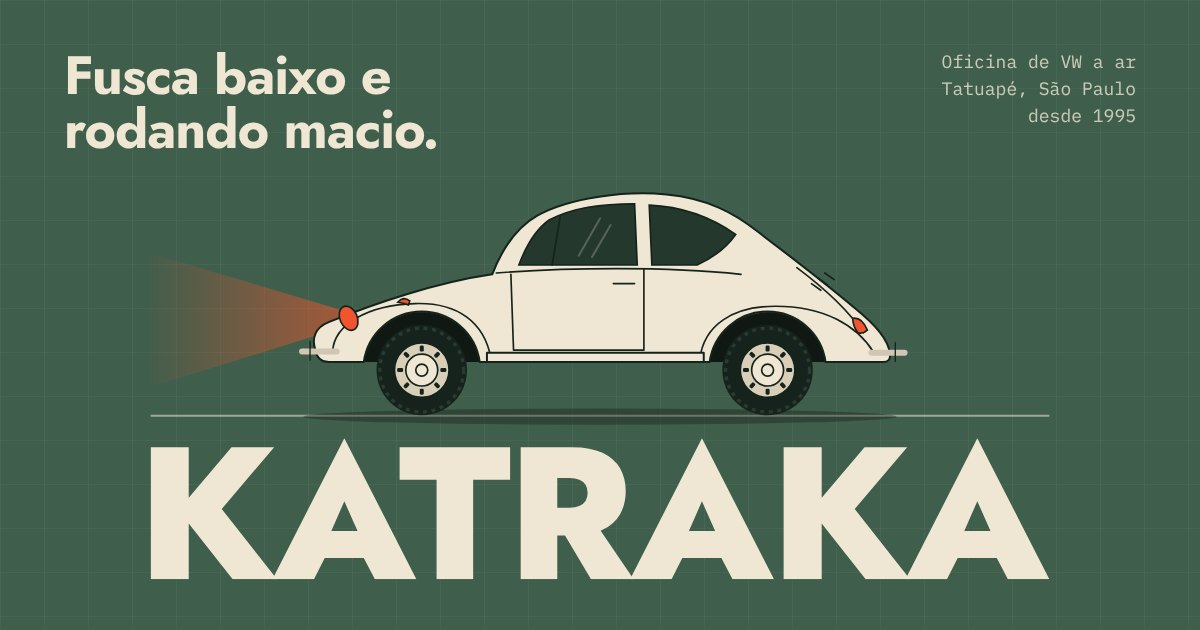
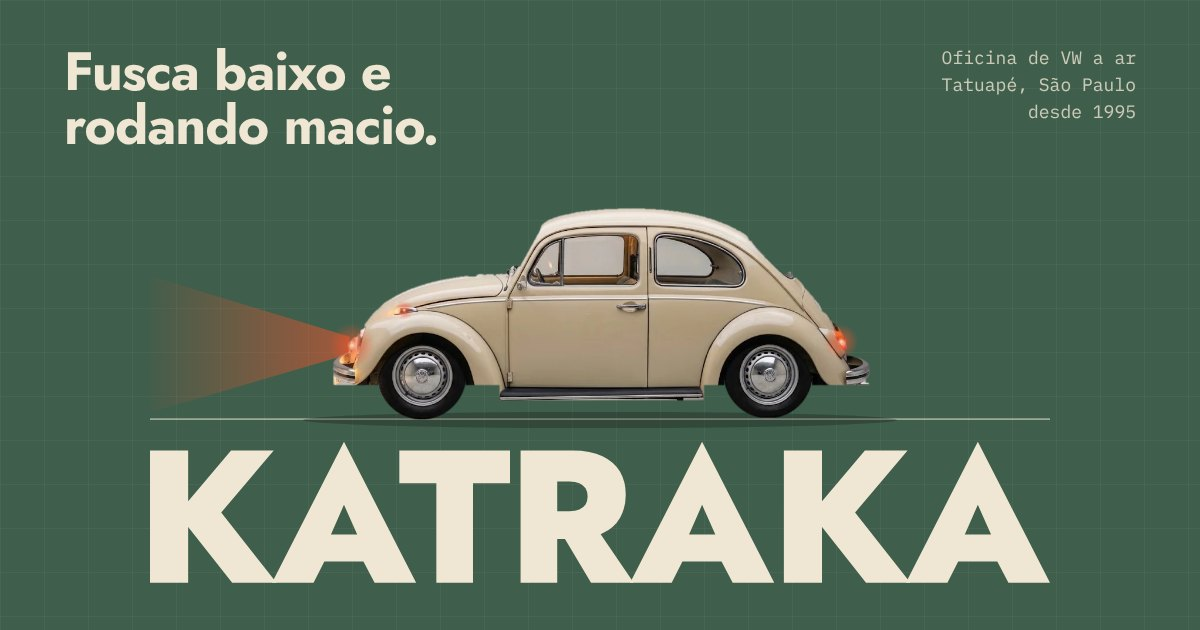
Katraka: introdução com o emblema VW e Fusca de verdade na abertura e no simulador
- Introdução: o emblema se monta (anel de catraca, V e W), o nome aparece
  dente por dente e o emblema pousa na calota do Fusca. Dá pra pular.
- Abertura e simulador usam a foto do Fusca recortada em carroceria e
  rodas; a carroceria baixa até a altura da foto rebaixada.
- Aviso de marca no rodapé, nova og:image e README atualizado.

Claude-Session: https://claude.ai/code/session_01LCkFTaDN4uyqkZNRZ9pSrk

diff --git a/sites/katraka/index.html b/sites/katraka/index.html
@@ -76,25 +76,13 @@ h2{font-size:clamp(36px,6vw,80px)}
 .lnk{display:inline-flex;align-items:center;min-height:44px;font-weight:500;text-decoration:underline;text-decoration-thickness:1px;text-underline-offset:6px}
 .lnk:hover{text-decoration-thickness:2px}
 
-/* desenho do Fusca (os mesmos símbolos servem pras 3 cenas; a cor vem de cada cena) */
-.lata{fill:var(--lata,#EFE6D3);stroke:var(--linha,#16231C);stroke-width:3;stroke-linejoin:round;stroke-dasharray:var(--tr,none)}
-.ln{fill:none;stroke:var(--linha,#16231C);stroke-width:2.5;stroke-linecap:round;stroke-linejoin:round;stroke-dasharray:var(--tr,none)}
-.vidro{fill:var(--vidro,#24382D);stroke:var(--linha,#16231C);stroke-width:2.5;stroke-dasharray:var(--tr,none)}
-.brilho{fill:none;stroke:var(--lata,#EFE6D3);stroke-width:3;opacity:.25;stroke-linecap:round}
-.cromo{fill:none;stroke:var(--cromo,#cfc6b4);stroke-width:9;stroke-linecap:round}
-.cromo2{fill:none;stroke:var(--linha,#16231C);stroke-width:2}
-.luz{fill:var(--luz,#d9cfb8);stroke:var(--linha,#16231C);stroke-width:2.5;transition:fill .3s}
-.farol,.lanterna,.pisca{fill:var(--acesa,var(--luz,#d9cfb8))}
-.caixa{fill:var(--caixa,#0f1813)}
-.pneu{fill:var(--pneu,#16231C);stroke:var(--pneu-l,none);stroke-width:2;stroke-dasharray:var(--tr,none)}
-.banda{fill:none;stroke:var(--banda,#2a3a31);stroke-width:5;stroke-dasharray:6 7}
-.aro{fill:var(--aro,#d9cfb8);stroke:var(--linha,#16231C);stroke-width:2.5}
-.calota{fill:var(--calota,#EFE6D3);stroke:var(--linha,#16231C);stroke-width:2.5}
-.furo{fill:var(--linha,#16231C)}
+/* Fusca de verdade (foto em camadas: a carroceria desce, as rodas ficam no chão) */
 .arco{fill:none;stroke-width:6;stroke-linecap:round;transition:stroke .2s}
 .arco-f{stroke:var(--arco-f,transparent)}
 .arco-r{stroke:var(--arco-r,transparent)}
-.aceso{--acesa:#F2542D}
+.luzes{opacity:0;transition:opacity .45s ease}
+.leg-foto{font-family:var(--fm);font-size:11px;opacity:.5;text-align:right;margin-top:4px}
+.aceso .luzes{opacity:1}
 
 /* topo */
 body::before{content:"";position:fixed;inset:0 0 auto;height:env(safe-area-inset-top,0px);z-index:60;background:var(--base)}
@@ -110,6 +98,36 @@ body::before{content:"";position:fixed;inset:0 0 auto;height:env(safe-area-inset
 .nav a.it span+span{position:absolute;left:0;top:100%}
 .nav a.it:hover span{transform:translateY(-100%)}
 .nav .btn{min-height:44px;padding:0 18px;font-size:15px}
+
+/* ===== introdução: o emblema VW se monta como peça (anel de catraca que trava, V desce, W sobe) e vira a calota ===== */
+html.travado,html.travado body{overflow:hidden}
+.intro{position:fixed;inset:0;z-index:200;background:var(--graxa);display:grid;place-content:center;justify-items:center;gap:clamp(18px,3.4vh,30px);padding:24px;transition:background-color .6s ease;animation:intro-fim .4s 4.6s forwards}
+@keyframes intro-fim{to{opacity:0;visibility:hidden}}
+.intro.sai{background-color:rgba(22,35,28,0)}
+.in-logo{width:min(44vw,200px);aspect-ratio:1;transform-origin:50% 50%}
+.in-logo svg{width:100%;height:100%;overflow:visible;display:block}
+.in-logo .tr{fill:none;stroke:var(--segunda);transition:stroke .6s ease}
+.in-logo.voa .tr{stroke:#9C9A95}
+.in-dentes{stroke-width:12;stroke-dasharray:24 12.91;animation:in-gira .64s steps(8,end) .1s both,in-some .01s .78s forwards}
+@keyframes in-gira{from{transform:rotate(-150deg) scale(.84);opacity:0}12%{opacity:1}to{transform:rotate(0) scale(1);opacity:1}}
+@keyframes in-some{to{opacity:0}}
+.in-anel{stroke-width:12;opacity:0;animation:in-trava .3s var(--dente) .78s forwards}
+@keyframes in-trava{from{opacity:1;transform:scale(1.1)}to{opacity:1;transform:scale(1)}}
+.in-v,.in-w{stroke-width:13;stroke-miterlimit:8;stroke-linejoin:miter}
+.in-v{transform:translateY(-150px);animation:in-encaixa .3s var(--dente) .9s forwards}
+.in-w{transform:translateY(170px);animation:in-encaixa .3s var(--dente) 1.02s forwards}
+@keyframes in-encaixa{to{transform:none}}
+.in-faisca{fill:none;stroke:var(--acento);stroke-width:5;opacity:0;transform-box:fill-box;transform-origin:center;animation:in-faisca .55s ease-out 1.3s}
+@keyframes in-faisca{from{opacity:1;transform:scale(.3)}to{opacity:0;transform:scale(3.4)}}
+.in-txt{display:grid;justify-items:center;gap:12px;transition:opacity .3s,transform .3s}
+.intro.sai .in-txt{opacity:0;transform:translateY(-12px)}
+.in-nome{width:min(76vw,500px);clip-path:inset(0 100% 0 0);animation:in-nome .56s steps(7,end) 1.38s forwards}
+@keyframes in-nome{to{clip-path:inset(0 0 0 0)}}
+.in-nome svg{width:100%;height:auto;display:block;fill:var(--segunda)}
+.in-sub{font-family:var(--fm);font-size:13px;letter-spacing:.04em;opacity:0;animation:in-aparece .4s ease 1.8s forwards}
+@keyframes in-aparece{to{opacity:.72}}
+.in-pula{position:absolute;right:max(16px,env(safe-area-inset-right,0px));bottom:max(16px,env(safe-area-inset-bottom,0px));font-family:var(--fm);font-size:12px;opacity:.5;min-height:44px;padding:0 4px}
+.intro.sai .in-pula{opacity:0}
 
 /* ===== WOW 1: a katraka baixa o Fusca, dente por dente, em cima do nome ===== */
 .hero{position:relative;min-height:100vh;min-height:100svh;padding-top:calc(76px + env(safe-area-inset-top,0px));padding-bottom:20px;display:flex;flex-direction:column;justify-content:space-between;gap:20px;overflow:hidden;
@@ -128,7 +146,7 @@ body::before{content:"";position:fixed;inset:0 0 auto;height:env(safe-area-inset
 .facho{opacity:0;transition:opacity .5s ease}
 .aceso .facho{opacity:1}
 .chao{stroke:var(--segunda);stroke-width:2;opacity:.55}
-.sombra{fill:#0f1813;opacity:.35;transition:opacity .22s}
+.sombra{fill:#0f1813;opacity:.3;transition:opacity .22s}
 .dentes-h{font-family:var(--fm);font-size:13px;display:flex;align-items:center;gap:10px;opacity:.75}
 .dentes-h i{display:inline-block;width:10px;height:10px;border:1.5px solid var(--segunda);border-radius:2px;transition:background .1s}
 .dentes-h i.on{background:var(--acento);border-color:var(--acento)}
@@ -216,8 +234,9 @@ body::before{content:"";position:fixed;inset:0 0 auto;height:env(safe-area-inset
 .sim .sub{opacity:.8}
 .sim-topo{display:grid;grid-template-columns:minmax(0,1fr) minmax(0,1fr);gap:20px 64px;align-items:end}
 .sim-mesa{max-width:900px;margin:clamp(20px,3vw,36px) auto 0}
-.sim-cena{--lata:var(--base);--linha:var(--graxa);--vidro:var(--graxa);--luz:var(--segunda);--cromo:var(--graxa);--aro:var(--segunda);--calota:var(--segunda);--caixa:#0f1813;--pneu:var(--graxa);--banda:#2b3a31}
+.sim-cena{position:relative}
 .sim-cena svg{width:100%;height:auto;overflow:visible}
+.sim-cena .sombra-s{fill:#16231C;opacity:.22}
 .sim-cena .sobe{transition:transform .2s var(--dente)}
 .sim-cena .guia{stroke:var(--graxa);stroke-width:2;fill:none}
 .sim-cena .chao-s{stroke:var(--graxa);stroke-width:2.5}
@@ -407,11 +426,15 @@ body::before{content:"";position:fixed;inset:0 0 auto;height:env(safe-area-inset
 .embed .rx-foto{width:min(100%,1080px)}
 .embed .rx-lista{display:flex}
 .embed .zap,.dentro .zap{display:none!important}
+.embed .intro{display:none}
 .embed .farol{height:auto}
 .embed .fa-palco{position:relative;height:auto;min-height:100svh;padding-block:40px}
 
 /* reduzir movimento: troca por um fade curto, sem desligar tudo */
 @media (prefers-reduced-motion:reduce){
+  .in-dentes,.in-faisca{display:none}
+  .in-anel,.in-v,.in-w,.in-nome,.in-sub{animation:none;opacity:1;transform:none;clip-path:none}
+  .intro{animation:intro-fim .4s 2.4s forwards}
   .sobe,.sim-cena .sobe,.dial-roda .cr,.palavra-h,.carimbo,.zap,.nav a.it span{transition-duration:.01s!important}
   .leitura.entra .vai{animation:fade .3s ease}
   @keyframes fade{from{opacity:0}to{opacity:1}}
@@ -422,53 +445,38 @@ body::before{content:"";position:fixed;inset:0 0 auto;height:env(safe-area-inset
 -->
 </head>
 <body>
+<div class="intro" id="intro" aria-hidden="true">
+  <div class="in-logo" id="inLogo">
+    <svg viewBox="-110 -110 220 220">
+      <defs><clipPath id="inClip"><circle r="89"/></clipPath></defs>
+      <circle class="tr in-dentes" r="94"/>
+      <circle class="tr in-anel" r="94"/>
+      <g clip-path="url(#inClip)">
+        <path class="tr in-v" d="M-56 -100L0 8L56 -100"/>
+        <path class="tr in-w" d="M-104 -50L-35 86L0 30L35 86L104 -50"/>
+      </g>
+      <circle class="in-faisca" cy="19" r="12"/>
+    </svg>
+  </div>
+  <div class="in-txt">
+    <div class="in-nome"><svg viewBox="0 0 1000 157"><use href="#palavra" width="1000" height="157"/></svg></div>
+    <p class="in-sub">Especializada em VW a ar desde 1995</p>
+  </div>
+  <button class="in-pula" type="button" id="inPula" tabindex="-1">Pular</button>
+</div>
 
-<!-- desenhos reaproveitados (Fusca de lado e o nome KATRAKA em vetor, na fonte Jost) -->
+<!-- o nome KATRAKA em vetor (fonte Jost) e os gradientes das luzes -->
 <svg width="0" height="0" style="position:absolute;overflow:hidden" aria-hidden="true" focusable="false">
 <defs>
   <symbol id="palavra" viewBox="72 -747 4765 747"><path d="M274-700L72-700L72 0L274 0L274-295L507 0L742 0L449-372L727-700L501-700L274-432L274-700Z"/><path d="M995-113L1202-113L1261 0L1481 0L1099-747L718 0L938 0L995-113ZM1030-256L1099-413L1169-256L1030-256Z"/><path d="M1392-700L1392-527L1588-527L1588 0L1782 0L1782-527L1978-527L1978-700L1392-700Z"/><path d="M2309-700L2034-700L2034 0L2228 0L2228-232L2269-232L2407 0L2633 0L2458-257Q2463-259 2468-262L2468-262Q2530-291 2561-345Q2591-398 2591-466L2591-466Q2591-535 2561-588Q2530-640 2468-670Q2405-700 2309-700L2309-700ZM2293-379L2228-379L2228-536L2293-536Q2324-536 2345-527Q2366-518 2378-501Q2389-483 2389-458Q2389-433 2378-415Q2366-397 2345-388Q2324-379 2293-379L2293-379Z"/><path d="M2891-113L3098-113L3157 0L3377 0L2995-747L2614 0L2834 0L2891-113ZM2926-256L2995-413L3065-256L2926-256Z"/><path d="M3630-700L3428-700L3428 0L3630 0L3630-295L3863 0L4098 0L3805-372L4083-700L3857-700L3630-432L3630-700Z"/><path d="M4351-113L4558-113L4617 0L4837 0L4455-747L4074 0L4294 0L4351-113ZM4386-256L4455-413L4525-256L4386-256Z"/></symbol>
 
-  <symbol id="f-roda" overflow="visible">
-    <circle class="pneu" r="68"/>
-    <circle class="banda" r="63"/>
-    <circle class="aro" r="41"/>
-    <g class="furo">
-      <rect x="-3" y="-37" width="6" height="9" rx="2"/><rect x="-3" y="28" width="6" height="9" rx="2"/><rect x="-37" y="-3" width="9" height="6" rx="2"/><rect x="28" y="-3" width="9" height="6" rx="2"/>
-      <g transform="rotate(45)"><rect x="-3" y="-37" width="6" height="9" rx="2"/><rect x="-3" y="28" width="6" height="9" rx="2"/><rect x="-37" y="-3" width="9" height="6" rx="2"/><rect x="28" y="-3" width="9" height="6" rx="2"/></g>
-    </g>
-    <circle class="calota" r="24"/>
-    <circle class="ln" r="9"/>
-  </symbol>
-
-  <symbol id="f-fundo" overflow="visible">
-    <path class="caixa" d="M319 318A88 88 0 0 0 145 318Z M839 318A88 88 0 0 0 665 318Z"/>
-  </symbol>
-
-  <symbol id="f-corpo" overflow="visible">
-    <path class="lata" d="M72 300C66 282 72 266 92 258C160 230 255 198 338 186C352 150 374 116 405 98C455 70 540 60 600 66C662 72 702 94 736 121C790 162 842 202 882 236C914 262 934 284 936 306C937 314 933 318 926 318L839.2 318A88 88 0 0 0 664.8 318L319.2 318A88 88 0 0 0 144.8 318L92 318C80 318 74 310 72 300Z"/>
-    <path class="ln" d="M98 302C100 262 150 232 222 230C286 228 326 258 336 312"/>
-    <path class="ln" d="M650 314C656 262 700 234 764 234C836 234 886 262 912 304"/>
-    <path class="lata" d="M330 304L656 304L656 318L330 318Z"/>
-    <path class="ln" d="M344 184C450 176 600 174 712 186"/>
-    <path class="ln" d="M366 186L370 300M566 178L566 300M370 300L566 300"/>
-    <path class="ln" d="M520 200L552 200"/>
-    <path class="vidro" d="M378 172C390 140 404 118 424 104C460 86 500 80 552 80L556 172Z"/>
-    <path class="ln" d="M428 172L440 100"/>
-    <path class="vidro" d="M574 82C622 84 664 98 704 126C690 146 668 162 646 172L578 172Z"/>
-    <path class="brilho" d="M468 158L500 102M488 160L516 112"/>
-    <path class="ln" d="M796 176C836 206 872 238 896 274"/>
-    <path class="ln" d="M818 200l14 10M828 192l14 10M838 184l14 10"/>
-    <ellipse class="luz farol" cx="122" cy="252" rx="13" ry="19" transform="rotate(-24 122 252)"/>
-    <path class="luz pisca" d="M196 228q8-10 18-2l-2 6q-8-3-16-4z"/>
-    <path class="luz lanterna" d="M880 252q14-2 22 18q-6 6-14 4q-8-10-8-22z"/>
-    <path class="cromo" d="M52 302L104 302"/>
-    <path class="cromo" d="M908 304L958 304"/>
-    <path class="cromo2" d="M64 286L64 316M944 288L944 318"/>
-    <path class="arco arco-f" d="M310 312A84 84 0 0 0 154 312"/>
-    <path class="arco arco-r" d="M830 312A84 84 0 0 0 674 312"/>
-  </symbol>
 
 
+  <radialGradient id="gLuz">
+    <stop offset="0" stop-color="#FFE7C2" stop-opacity=".95"/>
+    <stop offset=".25" stop-color="#F2542D" stop-opacity=".55"/>
+    <stop offset="1" stop-color="#F2542D" stop-opacity="0"/>
+  </radialGradient>
   <linearGradient id="gFacho" x1="1" y1="0" x2="0" y2="0">
     <stop offset="0" stop-color="#F2542D" stop-opacity=".55"/>
     <stop offset="1" stop-color="#F2542D" stop-opacity="0"/>
@@ -510,17 +518,21 @@ body::before{content:"";position:fixed;inset:0 0 auto;height:env(safe-area-inset
   </div>
 
   <div class="hero-arte">
-    <svg id="heroSvg" viewBox="0 24 1000 474" role="img" aria-label="Desenho de um Fusca baixando a suspensão, dente por dente, em cima do nome Katraka">
+    <svg id="heroSvg" viewBox="0 24 1000 474" role="img" aria-label="Fusca bege original que baixa a suspensão, dente por dente, até ficar rebaixado em cima do nome Katraka">
       <line class="chao" x1="0" y1="313" x2="1000" y2="313"/>
       <ellipse class="sombra" id="hSombra" cx="500" cy="314" rx="330" ry="9"/>
       <g id="hCarro" transform="translate(130 18) scale(.74)">
-        <g class="sobe"><polygon class="facho" points="112,240 112,266 -190,360 -190,150" fill="url(#gFacho)"/><use href="#f-fundo"/></g>
-        <g id="hR1"><use href="#f-roda" x="232" y="330"/></g>
-        <g id="hR2"><use href="#f-roda" x="752" y="330"/></g>
-        <g class="sobe"><use href="#f-corpo"/></g>
+        <g class="sobe"><polygon class="facho" points="124,254 124,280 -190,372 -190,158" fill="url(#gFacho)"/></g>
+        <g id="hR1"><image href="img/fusca-roda-d.webp" x="163.25" y="263.25" width="137.5" height="137.5"/></g>
+        <g id="hR2"><image href="img/fusca-roda-t.webp" x="683.25" y="261.5" width="137.5" height="137.5"/></g>
+        <g class="sobe">
+          <image href="img/fusca-corpo.webp" x="97.1" y="59.6" width="809.1" height="291.7"/>
+          <g class="luzes"><circle cx="128" cy="267" r="34" fill="url(#gLuz)"/><circle cx="206" cy="214" r="15" fill="url(#gLuz)"/><circle cx="862" cy="261" r="26" fill="url(#gLuz)"/></g>
+        </g>
       </g>
       <g class="palavra-h" id="hPalavra"><use href="#palavra" x="0" y="338" width="1000" height="157"/></g>
     </svg>
+    <p class="leg-foto">Imagem ilustrativa</p>
   </div>
 </section>
 
@@ -603,15 +615,20 @@ body::before{content:"";position:fixed;inset:0 0 auto;height:env(safe-area-inset
 
     <div class="sim-mesa">
       <div class="sim-cena">
-        <svg id="simSvg" viewBox="0 -10 1000 468" role="img" aria-label="Fusca de lado que baixa conforme você gira a katraka e o facão">
+        <svg id="simSvg" viewBox="0 -10 1000 468" role="img" aria-label="Fusca bege de lado que baixa conforme você gira a katraka (frente) e o facão (traseira)">
           <line class="chao-s" x1="0" y1="398" x2="1000" y2="398"/>
           <path class="hach" d="M20 398l-14 16M60 398l-14 16M100 398l-14 16M140 398l-14 16M180 398l-14 16M220 398l-14 16M260 398l-14 16M300 398l-14 16M340 398l-14 16M380 398l-14 16M420 398l-14 16M460 398l-14 16M500 398l-14 16M540 398l-14 16M580 398l-14 16M620 398l-14 16M660 398l-14 16M700 398l-14 16M740 398l-14 16M780 398l-14 16M820 398l-14 16M860 398l-14 16M900 398l-14 16M940 398l-14 16M980 398l-14 16"/>
-          <g class="sobe"><use href="#f-fundo"/></g>
-          <use href="#f-roda" x="232" y="330"/>
-          <use href="#f-roda" x="752" y="330"/>
-          <g class="sobe"><use href="#f-corpo"/></g>
+          <ellipse class="sombra-s" cx="492" cy="399" rx="400" ry="7"/>
+          <image href="img/fusca-roda-d.webp" x="163.25" y="263.25" width="137.5" height="137.5"/>
+          <image href="img/fusca-roda-t.webp" x="683.25" y="261.5" width="137.5" height="137.5"/>
+          <g class="sobe">
+            <image href="img/fusca-corpo.webp" x="97.1" y="59.6" width="809.1" height="291.7"/>
+            <path class="arco arco-f" d="M162.5 306.7A74 74 0 0 1 301.5 306.7"/>
+            <path class="arco arco-r" d="M682.5 304.9A74 74 0 0 1 821.5 304.9"/>
+          </g>
           <path class="guia" d="M232 420V458M752 420V458" stroke-dasharray="4 5"/>
         </svg>
+        <p class="leg-foto">Imagem ilustrativa</p>
       </div>
       <div class="sim-dials">
         <div class="dial" id="dialF">
@@ -800,7 +817,8 @@ body::before{content:"";position:fixed;inset:0 0 auto;height:env(safe-area-inset
         <a href="privacidade.html">Política de privacidade</a>
       </nav>
     </div>
-    <p class="credito">Site feito pela GuDev</p>
+    <p class="credito">Volkswagen, VW e o emblema VW são marcas da Volkswagen AG. A Katraka é uma oficina independente, sem vínculo com a montadora.</p>
+    <p class="credito" style="margin-top:8px">Site feito pela GuDev</p>
   </div>
 </footer>
 
@@ -889,11 +907,11 @@ body::before{content:"";position:fixed;inset:0 0 auto;height:env(safe-area-inset
   /* ===================== WOW 1: abertura ===================== */
   var heroSvg = $("#heroSvg"), hSobe = $$("#heroSvg .sobe"), hPal = $("#hPalavra"), hSombra = $("#hSombra");
   var hDentes = $$(".dentes-h i"), hCarro = $("#hCarro"), hR1 = $("#hR1"), hR2 = $("#hR2");
-  var DENTE = 8, N = 5;
+  var DENTE = 4.2, N = 5;   // 5 dentes = 21 unidades = a mesma altura da foto do Fusca rebaixado
   function alturaHero(dentes){
-    var dy = dentes * DENTE;
-    hSobe.forEach(function(g){ g.style.transform = "translateY(" + (-dy) + "px)"; });
-    hSombra.style.opacity = (.35 - dentes * .045).toFixed(3);
+    var dy = (N - dentes) * DENTE;   // começa na altura original e desce até rebaixado
+    hSobe.forEach(function(g){ g.style.transform = "translateY(" + dy.toFixed(1) + "px)"; });
+    hSombra.style.opacity = (.18 + (N - dentes) * .04).toFixed(3);
     hDentes.forEach(function(i, k){ i.classList.toggle("on", k < N - dentes); });
   }
   function heroFinal(){ alturaHero(0); heroSvg.classList.add("aceso"); }
@@ -903,6 +921,11 @@ body::before{content:"";position:fixed;inset:0 0 auto;height:env(safe-area-inset
     alturaHero(N);
     heroSvg.getBoundingClientRect();
     hSobe.forEach(function(g){ g.style.transition = ""; });
+  }
+  var heroFoi = false;
+  function heroComeca(atraso){
+    if (heroFoi) return; heroFoi = true;
+    if (embed || reduz){ heroFinal(); return; }
     var feito = 0;
     for (var k = 1; k <= N; k++) (function(k){
       setTimeout(function(){
@@ -910,10 +933,46 @@ body::before{content:"";position:fixed;inset:0 0 auto;height:env(safe-area-inset
         alturaHero(N - k);
         hPal.classList.add("carga");
         setTimeout(function(){ hPal.classList.remove("carga"); }, 90);
-      }, 650 + k * 260);
+      }, atraso + k * 260);
     })(k);
-    setTimeout(function(){ heroSvg.classList.add("aceso"); }, 650 + N * 260 + 260);
-    setTimeout(function(){ if (feito < N){ feito = N; } heroFinal(); }, 650 + N * 260 + 1200);  // garantia
+    setTimeout(function(){ heroSvg.classList.add("aceso"); }, atraso + N * 260 + 260);
+    setTimeout(function(){ feito = N; heroFinal(); }, atraso + N * 260 + 1200);  // garantia
+  }
+
+  /* ---------- introdução: o emblema se monta, o nome aparece e o emblema vira a calota da roda ---------- */
+  var intro = $("#intro");
+  var temIntro = !!intro && !embed && !location.hash && (window.scrollY || window.pageYOffset || 0) < 40;
+  if (!temIntro){ if (intro) intro.parentNode.removeChild(intro); heroComeca(650); }
+  else {
+    raiz.classList.add("travado");
+    var acabou = false;
+    var fimIntro = function(rapido){
+      if (acabou) return; acabou = true;
+      var logo = $("#inLogo");
+      intro.classList.add("sai");
+      if (!rapido && !reduz){
+        var a = hR1.getBoundingClientRect(), b = logo.getBoundingClientRect();
+        // pousa em cima do emblema VW de verdade da calota (raio 11 px numa roda de 156 px)
+        var esc = (a.width * 22 / 156) / (b.width * 200 / 220);
+        var dx = (a.left + a.width * 79 / 156) - (b.left + b.width / 2), dy = (a.top + a.height * 80 / 156) - (b.top + b.height / 2);
+        logo.classList.add("voa");
+        logo.style.transition = "transform .75s cubic-bezier(.6,0,.2,1), opacity .22s ease .6s";
+        logo.style.opacity = 0;
+        logo.style.transform = "translate(" + dx.toFixed(1) + "px," + dy.toFixed(1) + "px) scale(" + esc.toFixed(4) + ")";
+      } else {
+        logo.style.transition = "opacity .25s"; logo.style.opacity = 0;
+      }
+      setTimeout(function(){
+        raiz.classList.remove("travado");
+        if (intro.parentNode) intro.parentNode.removeChild(intro);
+        heroComeca(rapido ? 300 : 120);
+      }, rapido ? 320 : 800);
+    };
+    setTimeout(function(){ fimIntro(false); }, reduz ? 1300 : 2250);
+    var pula = function(){ fimIntro(true); };
+    $("#inPula").addEventListener("click", pula);
+    ["keydown", "wheel", "touchmove"].forEach(function(ev){ window.addEventListener(ev, pula, { once: true, passive: true }); });
+    intro.addEventListener("pointerdown", pula);
   }
   function heroRola(){
     if (embed || reduz) return;
@@ -921,9 +980,9 @@ body::before{content:"";position:fixed;inset:0 0 auto;height:env(safe-area-inset
     var p = clamp(-r.top / Math.max(1, r.height), 0, 1);
     var dx = p * 240;                         // anda pra esquerda (frente do Fusca)
     hCarro.setAttribute("transform", "translate(" + (130 - dx).toFixed(1) + " 18) scale(.74)");
-    var ang = -(dx / .74) / 68 * 180 / Math.PI;
-    hR1.setAttribute("transform", "rotate(" + ang.toFixed(1) + " 232 330)");
-    hR2.setAttribute("transform", "rotate(" + ang.toFixed(1) + " 752 330)");
+    var ang = -(dx / .74) / 66 * 180 / Math.PI;
+    hR1.setAttribute("transform", "rotate(" + ang.toFixed(1) + " 232 332)");
+    hR2.setAttribute("transform", "rotate(" + ang.toFixed(1) + " 752 330.2)");
   }
 
   /* ---------- o interruptor do farol: desligado, lanterna, farol baixo, farol alto ---------- */
@@ -1040,7 +1099,7 @@ body::before{content:"";position:fixed;inset:0 0 auto;height:env(safe-area-inset
   /* ===================== WOW 3: simulador ===================== */
   var est = { f: 2, r: 1 };
   var simSvg = $("#simSvg"), simSobe = $$("#simSvg .sobe"), estado = $("#estado"), medidor = $("#medidor"), segs = $$("#medidor i");
-  var simWa = $("#simWa"), PASSO = 6;
+  var simWa = $("#simWa"), PASSO = 5;   // 4 dentes ~ a foto do Fusca rebaixado
   function carroAtual(){ var c = $("input[name=carro]:checked"); return c ? c.value : "Fusca"; }
   function msgSim(){
     var c = carroAtual(), c2 = (c === "Fusca" ? "um " : "uma ") + c;
@@ -1050,9 +1109,9 @@ body::before{content:"";position:fixed;inset:0 0 auto;height:env(safe-area-inset
   function atualizaSim(){
     var fd = est.f * PASSO, rd = est.r * PASSO;
     var meio = (fd + rd) / 2, ang = Math.atan((rd - fd) / 520) * 180 / Math.PI;
-    simSobe.forEach(function(g){ g.style.transform = "rotate(" + ang.toFixed(3) + "deg) translateY(" + meio.toFixed(2) + "px)"; g.style.transformOrigin = "492px 318px"; });
-    simSvg.style.setProperty("--arco-f", fd > 20 ? "#F2542D" : "transparent");
-    simSvg.style.setProperty("--arco-r", rd > 20 ? "#F2542D" : "transparent");
+    simSobe.forEach(function(g){ g.style.transform = "rotate(" + ang.toFixed(3) + "deg) translateY(" + meio.toFixed(2) + "px)"; g.style.transformOrigin = "492px 331px"; });
+    simSvg.style.setProperty("--arco-f", fd > 22 ? "#F2542D" : "transparent");
+    simSvg.style.setProperty("--arco-r", rd > 22 ? "#F2542D" : "transparent");
     var tot = est.f + est.r, txt;
     medidor.classList.toggle("limite", tot >= 6 && tot <= 8);
     medidor.classList.toggle("passou", tot >= 9);

diff --git a/sites/katraka/README.md b/sites/katraka/README.md
@@ -11,12 +11,13 @@ Site de prévia feito em 06/11/2026. **Ainda não é cliente.**
 - Cores: Verde Máquina `#3F5E4C` (base), Branco Lótus `#EFE6D3` (segunda), Laranja Lanterna `#F2542D` (acento: faróis, lanternas, WhatsApp, a katraka). Graxa `#16231C` pros fundos escuros.
 - Fontes: Jost (geométrica, redonda como o Fusca, da família dos anúncios da VW) + IBM Plex Mono (anotações técnicas).
 - Princípio: o nome da oficina é a peça (catraca = katraka). Tudo se move "em dentes", nunca deslizando.
-- O Fusca é desenhado em SVG (traço técnico), então o site fica completo mesmo sem foto da oficina.
+- O Fusca é uma foto de verdade (a que o Davi mandou) recortada em 3 camadas: carroceria e as duas rodas. A carroceria desce e as rodas ficam no chão, então dá pra baixar dente por dente.
 
 ## WOWs
-1. **Abertura:** o Fusca chega alto e baixa dente por dente em cima do nome KATRAKA (as letras "sentem" o peso); no fim, farol e lanterna acendem em laranja. Rolando, ele sai andando com as rodas girando.
+0. **Introdução:** o emblema VW se monta como peça (o anel gira em cliques de catraca e trava, o V desce, o W sobe, faísca laranja no encaixe) e o nome KATRAKA aparece dente por dente. Depois o emblema voa e pousa no emblema da calota do Fusca. Dá pra pular (toque, tecla ou rolagem). Não aparece no modo prévia (`?embed`) nem se a pessoa chegar por um link com `#`.
+1. **Abertura:** o Fusca de verdade sai da altura original e baixa dente por dente até a altura da foto rebaixada, em cima do nome KATRAKA (as letras "sentem" o peso); no fim, farol e lanterna acendem em laranja. Rolando, ele sai andando com as rodas girando.
 2. **Meio:** "Fusca é pra durar": a foto do Fusca verde liga a luz em 4 posições do interruptor (desligado, lanterna, farol baixo, farol alto). Em seguida, o **raio-x**: a foto do Fusca de lado e, dentro da faixa do scanner, a mesma foto em vista interna (imagem que o Davi mandou), com um marcador laranja pulsando em cada parte onde a oficina mexe (suspensão e katraka, freio, direção, quadro, facão, rodas, motor). Cada parte vira um orçamento pronto no WhatsApp.
-3. **Interativo:** "Gire a katraka": duas catracas, uma embaixo de cada roda (dianteira = katraka, traseira = facão). A pessoa gira com o dedo, ouve o "tec", vê o Fusca baixar e o medidor dizer se está no ponto, no limite ou se passou (aí o pneu raspa no paralama). Escolhe o carro e manda a configuração pro WhatsApp.
+3. **Interativo:** "Gire a katraka", com o mesmo Fusca de verdade: duas catracas, uma embaixo de cada roda (dianteira = katraka, traseira = facão). Com 4 dentes na frente e 4 atrás ele fica igual à foto do Fusca rebaixado que o Davi mandou (as duas fotos têm a carroceria no mesmo lugar, só as rodas mudam 24 px). A pessoa gira com o dedo, ouve o "tec", vê o Fusca baixar e o medidor dizer se está no ponto, no limite ou se passou (aí o pneu entra no para-lama e acende o aviso laranja). Escolhe o carro e manda a configuração pro WhatsApp.
 
 Extra: ordem de serviço (formulário) que leva um carimbo "ENVIADO" e abre o WhatsApp com a mensagem pronta.
 
@@ -30,9 +31,11 @@ Tudo veio de pesquisa pública (site katraka.com.br, Facebook, Instagram @katrak
 - [ ] **"Mais de mil carros"** e **"desde 1995":** do site oficial deles. Conferir.
 - [ ] **Coordenadas (geo) do JSON-LD:** não coloquei pra não chutar. Pegar no Maps e adicionar.
 - [ ] **Logo:** usei o nome em texto. Se tiver logo, trocar no topo.
+- [ ] **Emblema da VW na introdução:** é marca registrada da Volkswagen. Coloquei no rodapé que a Katraka é oficina independente, sem vínculo com a montadora. Se o Alexandre preferir não usar o emblema, dá pra trocar a introdução pelo logo dele.
 
 ## Fotos
 As fotos em `img/` (menos a `og-katraka.jpg`) são **fotos conceito que o Davi mandou** (Pinterest/Instagram), não são da Katraka nem de clientes. Estão marcadas como "foto ilustrativa". Antes de publicar como site final: trocar por fotos da oficina (Instagram @katrakavw / Google Maps, pedindo permissão) ou confirmar que pode usar.
+- `fusca-corpo.webp`, `fusca-roda-d.webp`, `fusca-roda-t.webp`: o Fusca bege que o Davi mandou (versão original), recortado do fundo. Usado na abertura e no simulador, com a legenda "Imagem ilustrativa".
 - `fusca-farol.jpg`: seção do interruptor do farol (o fundo preto da foto se funde no verde-escuro com `mix-blend-mode: lighten`).
 - `raiox-lateral.jpg` e `raiox-interna.jpg`: as duas metades da imagem "vista lateral / vista interna" que o Davi mandou, alinhadas pixel a pixel. Da vista interna tirei os textos e as linhas-guia (o fundo fora do carro vem da vista lateral e as linhas dentro do carro foram apagadas). Parece imagem gerada por IA, então está marcada como "Imagem ilustrativa".
 - `fusca-rebaixado.jpg`: "quem somos". `farol-detalhe.jpg`: FAQ (só no computador). `fusca-estrada.jpg`: rodapé "Boa estrada". `fusca-por-do-sol.jpg`: página 404.
